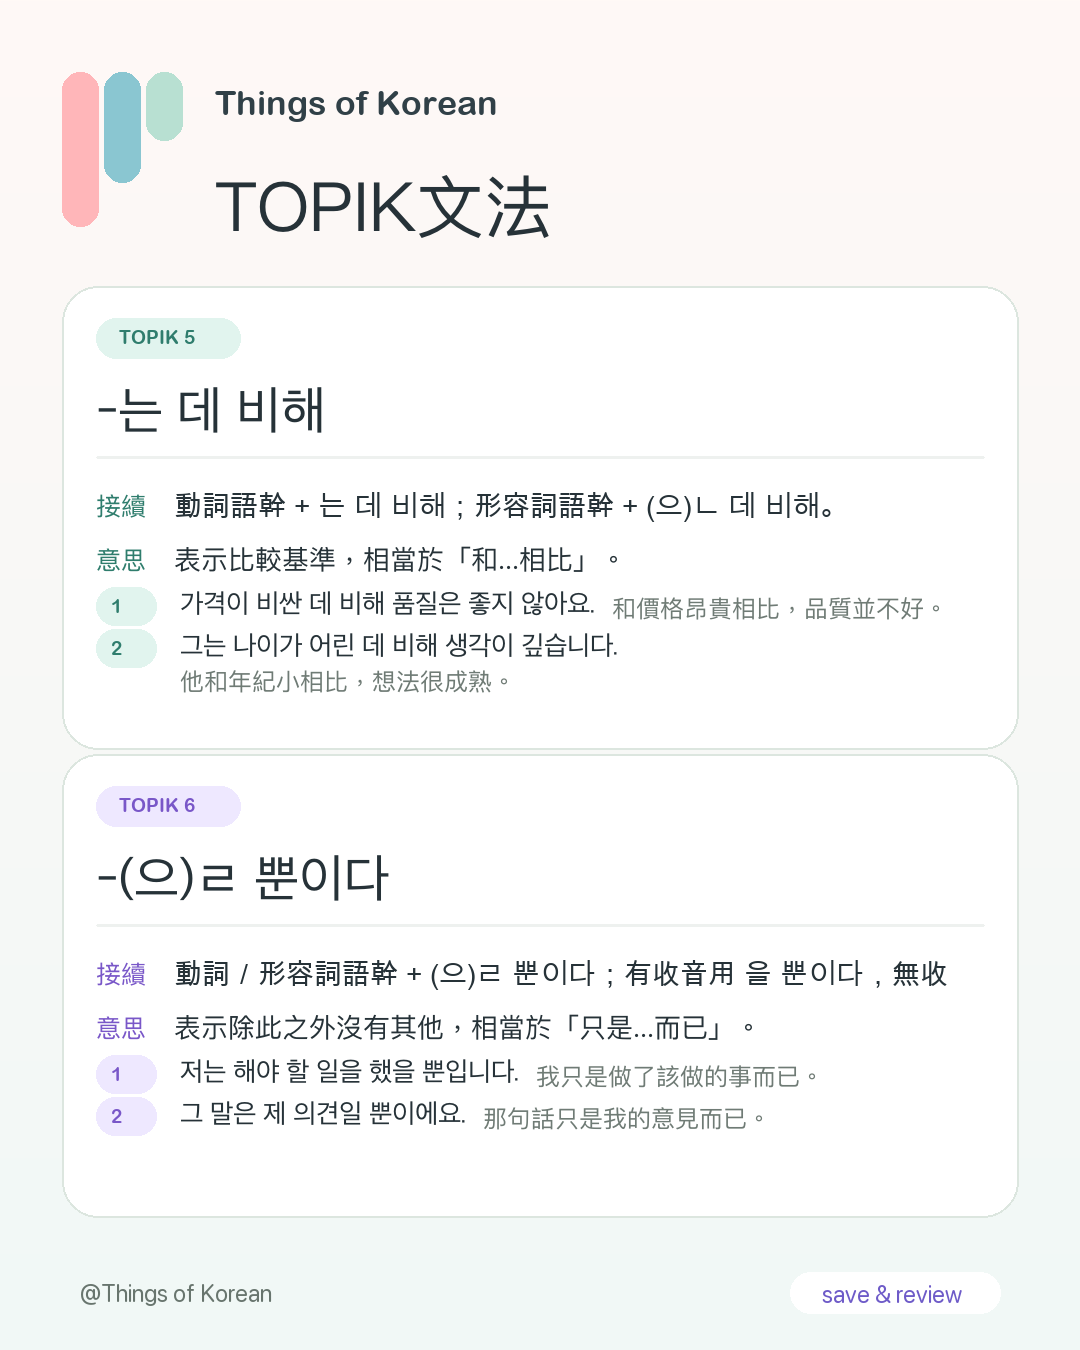
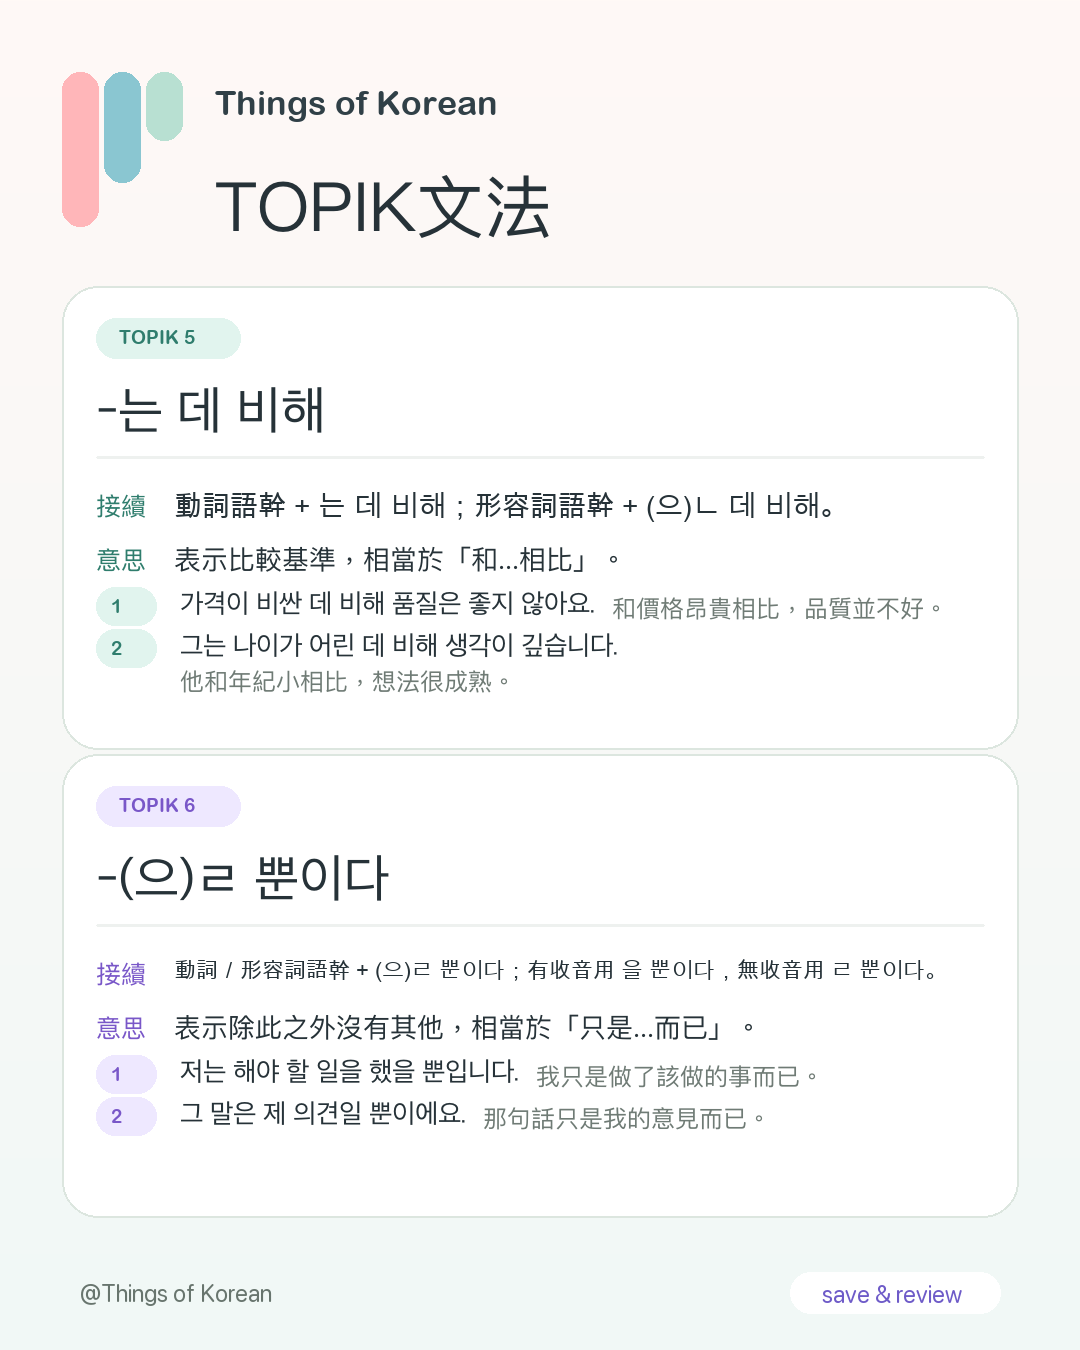
Prevent grammar attachment overflow

Changed region(s): [[0.3972, 0.7156, 0.7944, 0.7467], [0.1528, 0.7156, 0.3667, 0.7467], [0.825, 0.7156, 0.8861, 0.7467]]

diff --git a/scripts/render-ig-images.py b/scripts/render-ig-images.py
@@ -677,6 +677,44 @@ def draw_fit_line(draw, x, y, text, font, fill, max_width, min_size=15):
     return y + (bbox[3] - bbox[1])
 
 
+def draw_fit_or_wrap(draw, x, y, text, font, fill, max_width, max_lines=2, min_size=18, gap=4):
+    fitted = fit_font(draw, text, font, max_width, min_size)
+    if draw.textlength(text, font=fitted) <= max_width:
+        draw.text((x, y), text, font=fitted, fill=fill)
+        bbox = draw.textbbox((x, y), text, font=fitted)
+        return y + (bbox[3] - bbox[1])
+
+    lines = []
+    line = ""
+    for char in text:
+        test = line + char
+        if draw.textlength(test, font=fitted) <= max_width:
+            line = test
+        else:
+            if line:
+                lines.append(line)
+            line = char
+            if len(lines) >= max_lines - 1:
+                break
+    remaining = text[len("".join(lines)):]
+    if remaining:
+        line = ""
+        for char in remaining:
+            test = line + char
+            if draw.textlength(test, font=fitted) <= max_width:
+                line = test
+            else:
+                break
+        if line:
+            lines.append(line)
+
+    for line in lines[:max_lines]:
+        draw.text((x, y), line, font=fitted, fill=fill)
+        bbox = draw.textbbox((x, y), line, font=fitted)
+        y += (bbox[3] - bbox[1]) + gap
+    return y - gap
+
+
 def wrap(draw, text, xy, font, fill, max_width, max_lines=2, gap=4):
     x, y = xy
     lines = []
@@ -846,8 +884,19 @@ def render_grammar(rows, output_path):
 
         cy = y + 202
         draw.text((card_x + 34, cy), "接續", font=FONTS["label"], fill=accent)
-        wrap(draw, item.get("attachment", ""), (card_x + 112, cy - 2), FONTS["attach"], "#263238", 790, 1, 5)
-        cy += 54
+        attachment_bottom = draw_fit_or_wrap(
+            draw,
+            card_x + 112,
+            cy - 2,
+            item.get("attachment", ""),
+            FONTS["attach"],
+            "#263238",
+            790,
+            2,
+            17,
+            5,
+        )
+        cy = max(cy + 54, attachment_bottom + 18)
         draw.text((card_x + 34, cy), "意思", font=FONTS["label"], fill=accent)
         cy = wrap(draw, item.get("meaning", ""), (card_x + 112, cy - 2), FONTS["body"], "#263238", 790, 2, 6) + 18
 
